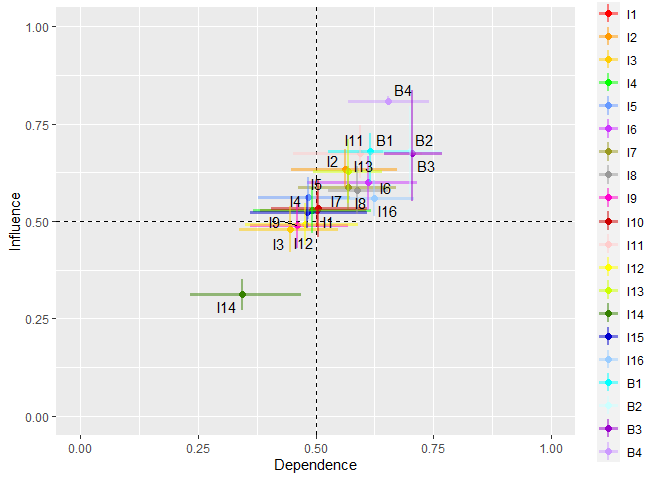
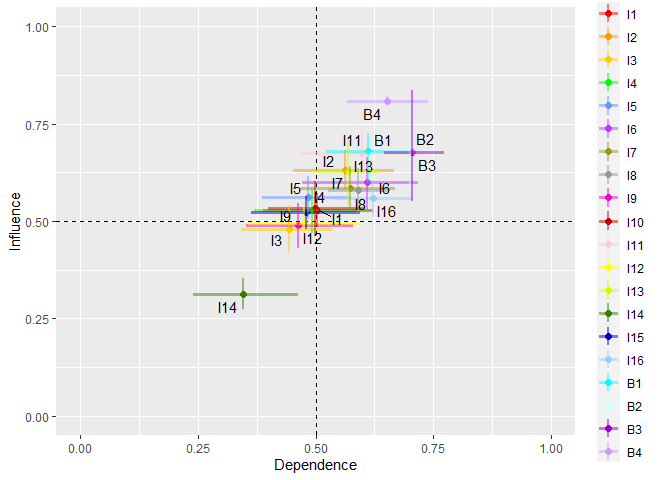
Update

diff --git a/README.md b/README.md
@@ -186,17 +186,17 @@ displayed.
 
 ``` r
 result$DirectEffects[1:10,]
-#>    From  To  Mean   UCI p.value
-#> 1    I1  I2 0.525 0.645   0.621
-#> 2    I1  I3 0.450 0.590   0.305
-#> 3    I1  I4 0.525 0.665   0.591
-#> 4    I1  I5 0.465 0.635   0.379
-#> 5    I1  I6 0.645 0.810   0.853
-#> 6    I1  I7 0.815 0.875   1.000
-#> 7    I1  I8 0.580 0.695   0.835
-#> 8    I1  I9 0.490 0.630   0.456
-#> 9    I1 I10 0.560 0.700   0.735
-#> 10   I1 I11 0.525 0.695   0.581
+#>    From  To  Mean     UCI p.value
+#> 1    I1  I2 0.525 0.65025   0.608
+#> 2    I1  I3 0.450 0.59525   0.302
+#> 3    I1  I4 0.525 0.67000   0.609
+#> 4    I1  I5 0.465 0.64500   0.382
+#> 5    I1  I6 0.645 0.81025   0.877
+#> 6    I1  I7 0.815 0.87500   1.000
+#> 7    I1  I8 0.580 0.68500   0.868
+#> 8    I1  I9 0.490 0.64500   0.434
+#> 9    I1 I10 0.560 0.71525   0.744
+#> 10   I1 I11 0.525 0.70025   0.571
 ```
 
 Any result that contains a NA value in the UCI and p.value fields
@@ -231,16 +231,16 @@ Complete graphs only make use of the `CE` parameter. Here is an example:
 result <- directEffects(CE = CC, thr = 0.5, reps = 1000)
 result$DirectEffects[1:10,]
 #>    From  To  Mean     UCI p.value
-#> 1    I1  I2 0.525 0.65000   0.619
-#> 2    I1  I3 0.450 0.58500   0.297
-#> 3    I1  I4 0.525 0.66000   0.584
-#> 4    I1  I5 0.465 0.64525   0.371
-#> 5    I1  I6 0.645 0.80000   0.863
+#> 1    I1  I2 0.525 0.64000   0.619
+#> 2    I1  I3 0.450 0.59000   0.285
+#> 3    I1  I4 0.525 0.66500   0.619
+#> 4    I1  I5 0.465 0.65000   0.365
+#> 5    I1  I6 0.645 0.80500   0.869
 #> 6    I1  I7 0.815 0.87500   1.000
-#> 7    I1  I8 0.580 0.69000   0.840
-#> 8    I1  I9 0.490 0.64000   0.458
-#> 9    I1 I10 0.560 0.69500   0.746
-#> 10   I1 I11 0.525 0.69500   0.563
+#> 7    I1  I8 0.580 0.69500   0.844
+#> 8    I1  I9 0.490 0.63025   0.442
+#> 9    I1 I10 0.560 0.71500   0.698
+#> 10   I1 I11 0.525 0.69500   0.581
 ```
 
 ## bootMargin()
@@ -312,48 +312,48 @@ their values are:
 ``` r
 result$byCause
 #>    Var      Mean       LCI       UCI p.value
-#> 1   I1 0.5292248 0.4880885 0.5748531   0.168
-#> 2   I2 0.6328511 0.5868421 0.6839474   0.000
-#> 3   I3 0.4780018 0.4192379 0.5392089   0.526
-#> 4   I4 0.5282466 0.4695918 0.5866843   0.410
-#> 5   I5 0.5619774 0.5059342 0.6114766   0.050
-#> 6   I6 0.5990530 0.5282116 0.6665706   0.018
-#> 7   I7 0.5859660 0.5316520 0.6413034   0.000
-#> 8   I8 0.5796616 0.5165146 0.6402354   0.034
-#> 9   I9 0.4893731 0.4303330 0.5454452   0.718
-#> 10 I10 0.5328403 0.4590395 0.6050541   0.448
-#> 11 I11 0.6741589 0.6109671 0.7471133   0.000
-#> 12 I12 0.4915907 0.4391945 0.5454934   0.770
-#> 13 I13 0.6271512 0.5467544 0.7114912   0.010
-#> 14 I14 0.3123142 0.2718317 0.3513085   0.000
-#> 15 I15 0.5224109 0.4823000 0.5656689   0.312
-#> 16 I16 0.5590398 0.5117524 0.6052705   0.022
-#> 17  B1 0.6803933 0.6000000 0.7250000   0.662
-#> 18  B2 0.6805950 0.5700000 0.7950000   0.060
-#> 19  B3 0.6739750 0.5500000 0.8350000   0.068
-#> 20  B4 0.8082383 0.8000000 0.8200000   0.076
+#> 1   I1 0.5288746 0.4850285 0.5720855   0.160
+#> 2   I2 0.6320074 0.5822719 0.6823816   0.000
+#> 3   I3 0.4779530 0.4171946 0.5406614   0.532
+#> 4   I4 0.5283726 0.4686483 0.5856516   0.416
+#> 5   I5 0.5614324 0.5055512 0.6156820   0.064
+#> 6   I6 0.5999455 0.5273837 0.6651388   0.014
+#> 7   I7 0.5845889 0.5274503 0.6417200   0.004
+#> 8   I8 0.5784128 0.5169057 0.6357332   0.026
+#> 9   I9 0.4889539 0.4316205 0.5468772   0.746
+#> 10 I10 0.5319239 0.4610029 0.6014430   0.402
+#> 11 I11 0.6739474 0.6133202 0.7456528   0.000
+#> 12 I12 0.4935499 0.4435026 0.5471019   0.728
+#> 13 I13 0.6270206 0.5387675 0.7196711   0.032
+#> 14 I14 0.3121708 0.2724742 0.3530755   0.000
+#> 15 I15 0.5228960 0.4800429 0.5635512   0.318
+#> 16 I16 0.5582789 0.5107204 0.6050015   0.022
+#> 17  B1 0.6792300 0.6000000 0.7250000   0.572
+#> 18  B2 0.6811050 0.5700000 0.7950000   0.078
+#> 19  B3 0.6760333 0.5500000 0.8350000   0.076
+#> 20  B4 0.8083700 0.8000000 0.8200000   0.074
 result$byEffect
 #>    Var      Mean       LCI       UCI p.value
-#> 1   I1 0.5023642 0.3825398 0.6068621   0.916
-#> 2   I2 0.5624098 0.4472571 0.6723667   0.360
-#> 3   I3 0.4449938 0.3383910 0.5481175   0.348
-#> 4   I4 0.4916902 0.3668840 0.6186714   0.884
-#> 5   I5 0.4848641 0.3787872 0.5726351   0.734
-#> 6   I6 0.6109460 0.4825509 0.7152965   0.340
-#> 7   I7 0.5691564 0.4627583 0.6716667   0.244
-#> 8   I8 0.5875786 0.5267107 0.6530131   0.020
-#> 9   I9 0.4615563 0.3603333 0.5683161   0.552
-#> 10 I10 0.5049886 0.4048443 0.6085353   1.000
-#> 11 I11 0.5949543 0.4521934 0.7258445   0.296
-#> 12 I12 0.4767885 0.3495306 0.5908367   0.632
-#> 13 I13 0.5685147 0.4950000 0.6416167   0.148
-#> 14 I14 0.3432402 0.2338368 0.4689757   0.026
-#> 15 I15 0.4816178 0.3601798 0.6087543   0.820
-#> 16 I16 0.6230173 0.5336615 0.7085584   0.014
-#> 17  B1 0.6163846 0.5265582 0.7026786   0.046
-#> 18  B2 0.6993948 0.6429228 0.7684806   0.000
-#> 19  B3 0.7042153 0.6444143 0.7680831   0.000
-#> 20  B4 0.6533494 0.5697545 0.7408162   0.002
+#> 1   I1 0.5034138 0.3885049 0.6211202   0.930
+#> 2   I2 0.5630319 0.4528353 0.6655500   0.356
+#> 3   I3 0.4436851 0.3412848 0.5366163   0.338
+#> 4   I4 0.4933484 0.3691185 0.6157560   0.832
+#> 5   I5 0.4839379 0.3855560 0.5755512   0.782
+#> 6   I6 0.6101467 0.4709501 0.7180465   0.352
+#> 7   I7 0.5721540 0.4668115 0.6678782   0.252
+#> 8   I8 0.5899297 0.5259443 0.6559122   0.024
+#> 9   I9 0.4638493 0.3529988 0.5796935   0.570
+#> 10 I10 0.4990418 0.3986269 0.6022319   0.890
+#> 11 I11 0.5982971 0.4661995 0.7278528   0.290
+#> 12 I12 0.4745791 0.3568527 0.5919389   0.708
+#> 13 I13 0.5682958 0.4939141 0.6360071   0.136
+#> 14 I14 0.3455048 0.2393687 0.4633647   0.024
+#> 15 I15 0.4801852 0.3636298 0.5934135   0.802
+#> 16 I16 0.6213836 0.5401352 0.7064578   0.016
+#> 17  B1 0.6115389 0.5232464 0.7000912   0.062
+#> 18  B2 0.7010378 0.6446963 0.7683036   0.000
+#> 19  B3 0.7053441 0.6456897 0.7723650   0.000
+#> 20  B4 0.6510719 0.5673456 0.7385614   0.002
 ```
 
 The parameter `plot = TRUE` generates the Dependency-Influence plane
@@ -458,25 +458,25 @@ The results obtained are:
 ``` r
 result
 #>    Var     Median        LCI       UCI Method pValue
-#> 1   I1 14.5928488 12.5050775 20.224670  conpl   0.94
-#> 2   I2 14.3563883  6.6019906 15.563849  conpl   0.66
+#> 1   I1 14.5928488 13.1436008 20.224670  conpl   0.96
+#> 2   I2 14.3563883  6.9466404 15.563849  conpl   0.56
 #> 3   I3  8.1428571  1.1000000 14.100000 median     NA
-#> 4   I4  0.6304530  0.1317644  1.395050  conpl   0.45
-#> 5   I5  4.9851140  3.0714024  5.835371  conpl   0.18
-#> 6   I6 13.5131265  5.9644749 31.937296  conpl   0.20
-#> 7   I7 24.9878131 16.8210812 25.608045  conpl   0.63
-#> 8   I8  5.0604244  1.6685493 10.662114  conpl   0.86
-#> 9   I9  3.8250000  0.3839286  5.200000 median     NA
-#> 10 I10  0.4667305  0.1306073  3.679326 median     NA
-#> 11 I11 21.2412358 20.9167213 21.702917  conpl   0.72
-#> 12 I12  7.3106674  4.4257539  7.558573  conpl   0.71
-#> 13 I13  2.3886553  0.5375630  4.926181  conpl   0.53
+#> 4   I4  0.6304530  0.1381956  1.405786  conpl   0.52
+#> 5   I5  4.9851140  4.3496498  5.758809  conpl   0.33
+#> 6   I6 13.5131265  0.8199258 31.937296  conpl   0.20
+#> 7   I7 24.9878131 24.5403580 25.213540  conpl   0.66
+#> 8   I8  5.0604244  1.5671087  6.956965  conpl   0.78
+#> 9   I9  3.8250000  0.2678571  5.200000 median     NA
+#> 10 I10  0.4667305  0.1291545  3.810338 median     NA
+#> 11 I11 21.2412358 13.2306966 21.849872  conpl   0.70
+#> 12 I12  7.3106674  4.7113149  7.558573  conpl   0.75
+#> 13 I13  2.3886553  0.5248796  7.079924  conpl   0.52
 #> 14 I14  0.0000000  0.0000000  0.000000 median     NA
-#> 15 I15  2.7760383  0.1987678  6.581992  conpl   0.85
-#> 16 I16 10.0007456  3.8282293 13.383899  conpl   0.78
-#> 17  B1  3.5000000  1.4166667  7.824583 median     NA
-#> 18  B2  1.8957816  0.7387789  2.436652  conpl   0.47
-#> 19  B3  2.2380952  1.2380952  3.791667 median     NA
+#> 15 I15  2.7760383  0.2009119  6.581992  conpl   0.80
+#> 16 I16 10.0007456  3.8778130 12.993326  conpl   0.78
+#> 17  B1  3.5000000  1.4166667  4.500000 median     NA
+#> 18  B2  1.8957816  0.7112538  2.385453  conpl   0.48
+#> 19  B3  0.8308252  0.3314167  1.462390  conpl   0.41
 #> 20  B4  5.6666667  1.7333333  8.000000 median     NA
 ```
 
@@ -490,23 +490,23 @@ Complete graphs only make use of the `CE` parameter. Here is an example:
 ``` r
 result <- centrality(CE = CC, model = "median", reps = 500)
 result
-#>    Var    Median       LCI      UCI Method pValue
-#> 1   I1 20.000000 7.1666667 22.31667 median     NA
-#> 2   I2 14.500000 2.5000000 24.77778 median     NA
-#> 3   I3  6.851190 0.3250000 12.58333 median     NA
-#> 4   I4  2.079167 0.8333333 21.58333 median     NA
-#> 5   I5  7.833333 0.4829748  9.00000 median     NA
-#> 6   I6 28.391667 1.0000000 36.83333 median     NA
-#> 7   I7 11.500000 2.0000000 41.33333 median     NA
-#> 8   I8  7.416667 2.1666667 15.17738 median     NA
-#> 9   I9  5.200000 3.1500000 13.50000 median     NA
-#> 10 I10  4.250000 1.4885311 27.34524 median     NA
-#> 11 I11 22.000000 4.3333333 30.75000 median     NA
-#> 12 I12 12.516667 0.5000000 15.36667 median     NA
-#> 13 I13  6.208333 1.9712558 12.37500 median     NA
-#> 14 I14  0.000000 0.0000000  0.00000 median     NA
-#> 15 I15  6.958333 2.0000000 43.00000 median     NA
-#> 16 I16 16.166667 9.7051587 43.85417 median     NA
+#>    Var    Median       LCI       UCI Method pValue
+#> 1   I1 20.000000 7.2916667 41.500000 median     NA
+#> 2   I2 14.500000 2.5000000 24.777778 median     NA
+#> 3   I3  6.851190 0.3250000 12.583333 median     NA
+#> 4   I4  2.079167 0.8333333 21.583333 median     NA
+#> 5   I5  7.833333 0.3250000  8.333333 median     NA
+#> 6   I6 28.391667 8.3380952 36.833333 median     NA
+#> 7   I7 11.500000 2.0000000 41.333333 median     NA
+#> 8   I8  7.416667 2.1666667 15.177381 median     NA
+#> 9   I9  5.200000 3.1500000 13.500000 median     NA
+#> 10 I10  4.250000 1.2500000 12.000000 median     NA
+#> 11 I11 22.000000 4.3333333 30.750000 median     NA
+#> 12 I12 12.516667 0.5000000 15.366667 median     NA
+#> 13 I13  6.208333 2.0000000 12.375000 median     NA
+#> 14 I14  0.000000 0.0000000  0.000000 median     NA
+#> 15 I15  6.958333 2.0000000 44.458333 median     NA
+#> 16 I16 16.166667 8.5769841 43.854167 median     NA
 ```
 
 ## FE()
@@ -594,12 +594,12 @@ The results of the forgotten effects of the second order are:
 ``` r
 head(result$boot$Order_2)
 #>   From Through_1 To Count  Mean LCI   UCI         SE
-#> 1   I1       I11 B1     2 0.800 0.6 0.800 0.13973749
-#> 2   I8        I7 B1     2 0.725 0.6 0.725 0.08682620
-#> 3  I14       I15 B2     2 0.725 0.7 0.725 0.01778662
+#> 1   I1       I11 B1     2 0.800 0.6 0.800 0.14155875
+#> 2   I8        I7 B1     2 0.725 0.6 0.725 0.09020738
+#> 3  I14       I15 B2     2 0.725 0.7 0.750 0.01812037
 #> 4  I10       I11 B3     2 0.600  NA    NA         NA
-#> 5  I14       I15 B3     2 0.725 0.7 0.750 0.01798466
-#> 6   I9        B3 B1     2 0.725 0.7 0.725 0.01782569
+#> 5  I14       I15 B3     2 0.725 0.7 0.725 0.01765945
+#> 6   I9        B3 B1     2 0.725 0.7 0.725 0.01742681
 ```
 
 Any result containing an NA value in the LCI, UCI, and SE fields
@@ -633,12 +633,12 @@ names(result)
 #> [1] "Order_2" "Order_3"
 head(result$Order_2)
 #>   From Through  To Count      Mean         SD
-#> 1  I10     I11 I14   213 0.6683694 0.09050397
-#> 2   I3      I6  I9   198 0.6572322 0.08113367
-#> 3  I13     I16  I1   190 0.6300914 0.08192967
-#> 4  I13      I6  I9   185 0.6577806 0.08671208
-#> 5   I8     I13 I10   183 0.7267369 0.10207310
-#> 6   I8      I6  I9   182 0.6439922 0.09664310
+#> 1  I10     I11 I14   208 0.6689026 0.09407256
+#> 2   I3      I6  I9   190 0.6452615 0.08234789
+#> 3  I13     I16  I1   184 0.6355942 0.08108535
+#> 4  I13      I6  I9   178 0.6575168 0.09256458
+#> 5   I8     I13 I10   175 0.7102929 0.10568339
+#> 6   I8      I6  I9   164 0.6506200 0.09933247
 ```
 
 ## References
